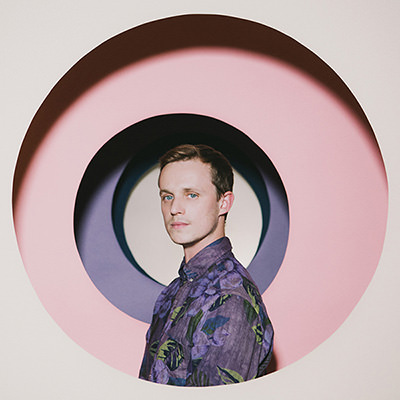
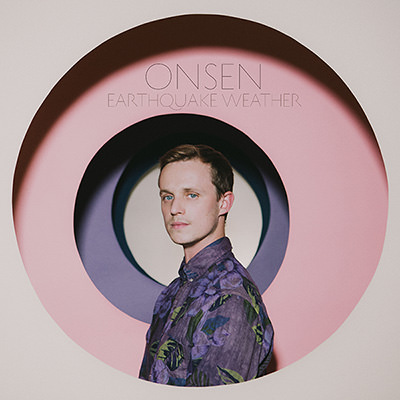
adding videos and artists pages, updated album cover art

diff --git a/_sass/components/_artists-list.scss b/_sass/components/_artists-list.scss
@@ -1,0 +1,54 @@
+// ==========================================================================
+// ARTISTS
+// ==========================================================================
+
+
+
+// List
+// --------------------------------------------------------------------------
+
+.artists-list {
+  margin: 0;
+  padding: 0;
+  list-style: none;
+
+  @include at-least(small) {
+    display: flex;
+    flex-direction: row;
+    flex-wrap: wrap;
+  }
+}
+
+.artists-list > li {
+  @include at-least(small) {
+    width: 33%;
+  }
+}
+
+.artists-list > li a {
+  display: block;
+  position: relative;
+}
+
+.artists-list > li img {
+  display: block;
+  width: 100%;
+  height: auto;
+}
+
+
+
+// Card
+// --------------------------------------------------------------------------
+
+.artists-list .artists-list-card {
+  position: absolute;
+  right: 0;
+  bottom: 0;
+  left: 0;
+  width: 100%;
+  padding: rem-calc(10 20);
+  color: $color-white;
+  background: rgba($color-dark-grey, .75);
+  font-size: $font-size-kilo;
+}

diff --git a/_sass/components/_videos-list.scss b/_sass/components/_videos-list.scss
@@ -1,0 +1,56 @@
+// ==========================================================================
+// VIDEOS
+// ==========================================================================
+
+
+
+// List
+// --------------------------------------------------------------------------
+
+.videos-list {
+  margin: 0;
+  padding: 0;
+  list-style: none;
+}
+
+.videos-list > li {
+  display: block;
+  margin-bottom: rem-calc(80);
+
+  &:last-child {
+    margin: 0;
+  }
+}
+
+.video-embed {
+   position: relative;
+   max-width: 100%;
+   height: 0;
+   padding-bottom: 56.25%;
+   overflow: hidden;
+}
+
+.video-embed > iframe {
+  position: absolute;
+  top: 0;
+  left: 0;
+  width: 100%;
+  height: 100%;
+}
+
+.video-meta {
+  padding: rem-calc(10 20);
+  background: $color-dark-blue;
+}
+
+.video-title {
+  text-transform: uppercase;
+
+  > b {
+    font-weight: 700;
+  }
+}
+
+.video-description {
+  margin: 0;
+}

diff --git a/index.html b/index.html
@@ -1,10 +1,15 @@
 ---
 layout: default
 title: Home
+album_list_limit: 2
 ---
+
+{% assign albumListLimit = 2 %}
+{% assign albumsListOffset = 1 %}
 
 {% include logo-banner.html %}
 {% include albums-list.html %}
 <div class="page-body">
-
+  <blockquote class="page-quote">Cosmic Dreamer is a platform for Artistic Expression. Founded by visual artists who play music, Cosmic Dreamer believes in the power of connecting with others through sight, sound and experience. We aim to put the object back into the manifestation of music, so listening is not only an aural experience, but a tangible one. We promote visual artists we believe in and musical artists who desire connection through making genuine, open investigations into sound. Cosmic Dreamer holds paramount the creative expression of the artist and the experiences they bring into the world.</blockquote>
 </div>
+{% include artists-list.html %}

diff --git a/_sass/layout/_page.scss b/_sass/layout/_page.scss
@@ -61,9 +61,43 @@
 
 
 
-// Header
+// Body
 // --------------------------------------------------------------------------
 
-.page-body {
-  padding: rem-calc(20);
+// .page-body {
+//   padding: rem-calc(20);
+
+//   @include at-least(small) {
+//     padding: rem-calc(40);
+//   }
+// }
+
+.page-title {
+  margin: rem-calc(40 0);
+  padding: rem-calc(0 20);
+  font-size: $font-size-kilo;
+  text-transform: uppercase;
+
+  @include at-least(small) {
+    padding: rem-calc(0 40);
+  }
 }
+
+.page-quote {
+  margin: 0;
+  padding: rem-calc(20);
+  font-size: $font-size-gamma;
+  line-height: 1.5;
+
+  @include at-least(medium) {
+    padding: rem-calc(30 75);
+    font-size: $font-size-beta;
+  }
+
+  @include at-least(large) {
+    padding: rem-calc(50 100);
+    font-size: $font-size-alpha;
+  }
+}
+
+

diff --git a/videos/index.html b/videos/index.html
@@ -1,0 +1,18 @@
+---
+layout: page
+title: Videos
+---
+
+<ul class="videos-list">
+  {% for post in site.categories.videos %}
+  <li class="video">
+    <div class="video-meta">
+      <span class="video-title"><b>{{ post.artist }}</b> - {{ post.title }}</span>
+      <p class="video-description">{{ post.description }}</p>
+    </div>
+    <div class="video-embed">
+      <iframe src="{{ post.link }}" frameborder="0" allowfullscreen></iframe>
+    </div>
+  </li>
+  {% endfor %}
+</ul>

diff --git a/_includes/navigation.html b/_includes/navigation.html
@@ -2,8 +2,8 @@
   <input class="navigation-toggle-input" id="navigation-toggle" type="checkbox">
   <ul class="navigation-list" id="navigation-list">
     <li><a href="#">Artists</a></li>
-    <li><a href="#">Albums</a></li>
-    <li><a href="#">About</a></li>
+    <li><a href="/albums">Albums</a></li>
+    <li><a href="/videos">Videos</a></li>
     <li><a href="#">Contact</a></li>
   </ul>
   <label class="navigation-toggle" for="navigation-toggle">

diff --git a/_includes/artists-list.html b/_includes/artists-list.html
@@ -1,0 +1,12 @@
+<ul class="artists-list">
+  {% for post in site.categories.artists %}
+    <li>
+      <a href="{{ post.url }}">
+        <img src="{{ site.baseurl }}/img/{{ post.photo }}.jpg" alt="{{ post.artist }}">
+        <div class="artists-list-card">
+          {{ post.artist }}
+        </div>
+      </a>
+    </li>
+  {% endfor %}
+</ul>

diff --git a/_includes/albums-list.html b/_includes/albums-list.html
@@ -1,5 +1,5 @@
 <ul class="albums-list">
-  {% for post in site.categories.albums %}
+  {% for post in site.categories.albums reversed offset:albumsListOffset limit:albumListLimit %}
     <li>
       <a href="{{ post.url }}">
         <div class="albums-list-card">

diff --git a/css/styles.scss b/css/styles.scss
@@ -26,7 +26,9 @@
 
 // Components
 @import "components/albums-list";
+@import "components/artists-list";
 @import 'components/logo-banner';
+@import 'components/videos-list';
 
 // Layout
 @import 'layout/album';

diff --git a/_layouts/page.html b/_layouts/page.html
@@ -1,0 +1,9 @@
+---
+layout: default
+---
+
+{% include page-header.html %}
+<div class="page-body">
+  <h2 class="page-title">{{ page.title }}</h2>
+  {{ content }}
+</div>

diff --git a/albums/index.html b/albums/index.html
@@ -1,0 +1,6 @@
+---
+layout: page
+title: Albums
+---
+
+{% include albums-list.html %}

diff --git a/_posts/albums/2016-04-01-life-death-capt-nathan-baker.md b/_posts/albums/2016-04-01-life-death-capt-nathan-baker.md
@@ -7,12 +7,12 @@ release: April, 2016
 cover: CDM003
 catalog: CDM003
 tracks:
-- Alright, Alright 
-- Chariots of Fire 
+- Alright, Alright
+- Chariots of Fire
 - Hero’s Heroes
-- Band of Brother Blues 
-- Cosmic Dreamer 
+- Band of Brother Blues
+- Cosmic Dreamer
 - Dance with Me
-- The Holy Ghost is a Mind Blower 
+- The Holy Ghost is a Mind Blower
 - Warrior
 ---
